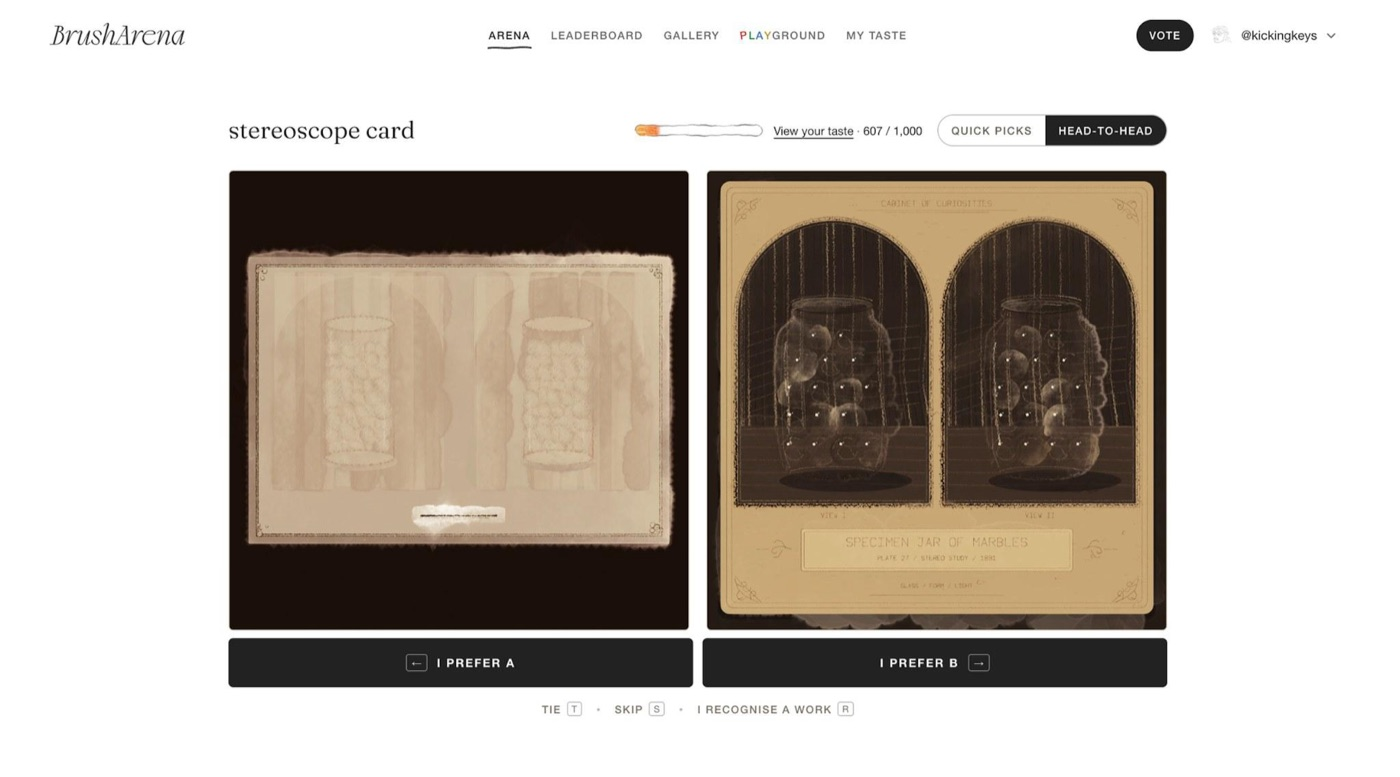
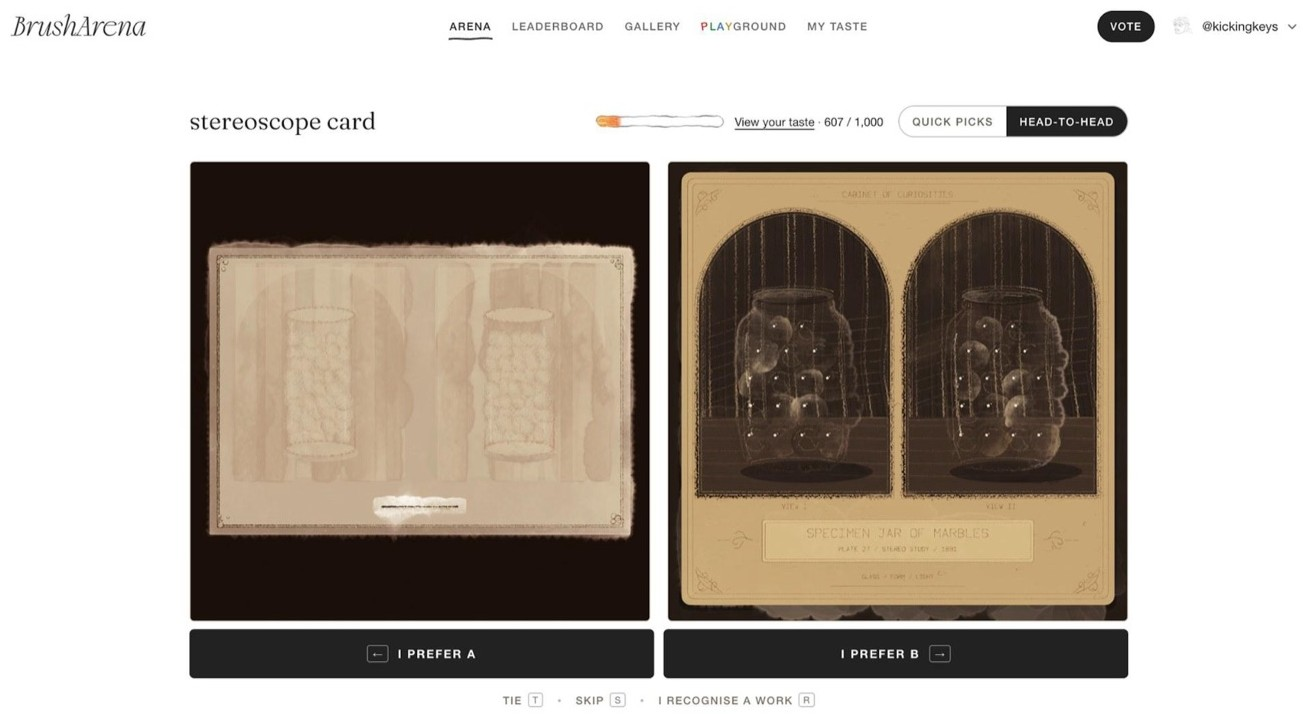
Surya: trim the white margins baked into three screenshots; RLHF screenshot smaller
The Brush Arena, Cameron/Discord and RLHF book images carried a white margin inside the picture,
which read as a second, heavier frame inside the dark border. They now run to the frame like the
photos on Adam's page. The RLHF screenshot drops to the small figure width.

Claude-Session: https://claude.ai/code/session_01Jvhb6stz1hdzzvazTXBFTu

diff --git a/interviews/surya/index.html b/interviews/surya/index.html
@@ -590,7 +590,7 @@
             </div>
           </div>
           <figure class="cc-figure">
-            <img class="cc-plate-img" src="images/cameron.gif" alt="Cameron laughing at a laptop in a warm-lit room, beside a Discord direct message window with him" width="1780" height="960" loading="lazy" decoding="async" />
+            <img class="cc-plate-img" src="images/cameron.gif?v=2" alt="Cameron laughing at a laptop in a warm-lit room, beside a Discord direct message window with him" width="1701" height="913" loading="lazy" decoding="async" />
             <figcaption><span class="cc-figure-label">Cameron</span></figcaption>
           </figure>
           <div class="cc-qa">
@@ -614,7 +614,7 @@
             </div>
           </div>
           <figure class="cc-figure">
-            <img class="cc-plate-img" src="images/brush-arena.jpg" alt="The Brush Arena site showing two stereoscope-card paintings side by side with buttons reading I prefer A and I prefer B" width="1400" height="777" loading="lazy" decoding="async" />
+            <img class="cc-plate-img" src="images/brush-arena.jpg?v=2" alt="The Brush Arena site showing two stereoscope-card paintings side by side with buttons reading I prefer A and I prefer B" width="1307" height="718" loading="lazy" decoding="async" />
             <figcaption><span class="cc-figure-label"><a href="https://brusharena.art/" target="_blank" rel="noopener">BrushArena</a></span></figcaption>
           </figure>
           <div id="learning-rl" class="scroll-anchor"></div>
@@ -630,8 +630,8 @@
               <p>Yeah it&rsquo;s interesting because a lot of this was just me looking at resources online and free books like <a href="https://rlhfbook.com/" target="_blank" rel="noopener">Nathan Lambert&rsquo;s book on RLHF</a>. I&rsquo;d read the chapters and have Claude quiz me.</p>
             </div>
           </div>
-          <figure class="cc-figure">
-            <img class="cc-plate-img" src="images/rlhf-book.jpg" alt="The front page of Nathan Lambert&#x27;s online book Reinforcement Learning from Human Feedback, with its table of contents" width="1400" height="1310" loading="lazy" decoding="async" />
+          <figure class="cc-figure is-small">
+            <img class="cc-plate-img" src="images/rlhf-book.jpg?v=2" alt="The front page of Nathan Lambert&#x27;s online book Reinforcement Learning from Human Feedback, with its table of contents" width="1221" height="1198" loading="lazy" decoding="async" />
             <figcaption><span class="cc-figure-label">Nathan Lambert's RLHF book</span></figcaption>
           </figure>
           <div class="cc-qa">
